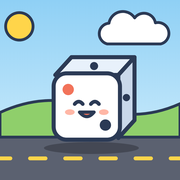
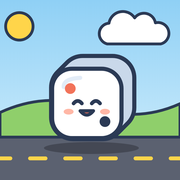
v1.0.0：骰子重畫
- 骰子改成圓角正面＋同形狀擠出的厚度，所有邊角一樣圓
- 主畫面圖示的骰子跟著換新

Claude-Session: https://claude.ai/code/session_01CaWGygM7QfDssuYbYcg2Lw

Changed region(s): [[0.25, 0.2778, 0.7778, 0.8056]]

diff --git a/index.html b/index.html
@@ -610,23 +610,25 @@ function ui(n,s=20,c=INK){
   return `<svg class="ic" width="${s}" height="${s}" viewBox="0 0 24 24">${P[n]||""}</svg>`;
 }
 
-/* ===== 實心手繪骰子（斜投影：正面＋上面＋右側面，全部不透明） ===== */
+/* ===== 實心手繪骰子（圓角正面＋往右上擠出的厚度，全部不透明） ===== */
 const PIPS={1:[[50,50]],2:[[28,28],[72,72]],3:[[26,26],[50,50],[74,74]],4:[[28,28],[72,28],[28,72],[72,72]],
   5:[[27,27],[73,27],[50,50],[27,73],[73,73]],6:[[29,24],[29,50],[29,76],[71,24],[71,50],[71,76]]};
 const pipSet=(n,r)=>PIPS[n].map(([x,y])=>`<circle cx="${x}" cy="${y}" r="${n===1?r*1.45:r}" fill="${n===1?"#F2735A":INK}"/>`).join("");
-// 跟 n 相鄰的兩面（對面相加 = 7，所以不能用 n 和 7-n）
-function sideFaces(n){ const adj=[1,2,3,4,5,6].filter(x=>x!==n&&x!==7-n); const top=adj[(n*2)%4]; const right=adj.filter(x=>x!==top&&x!==7-top)[0]; return [top,right]; }
-function dieSvg(n,face=true){
-  const [t,r]=sideFaces(n);
-  return `<g stroke-linejoin="round">
-    <path d="M14 34 L34 12 L112 12 L92 34 Z" fill="#E8F1FB" stroke="${INK}" stroke-width="5"/>
-    <g transform="matrix(.78,0,.2,-.22,14,34)">${pipSet(t,8)}</g>
-    <path d="M92 34 L112 12 L112 90 L92 112 Z" fill="#C9D8EA" stroke="${INK}" stroke-width="5"/>
-    <g transform="matrix(.2,-.22,0,.78,92,34)">${pipSet(r,8)}</g>
-    <rect x="12" y="32" width="82" height="82" rx="16" fill="#fff" stroke="${INK}" stroke-width="5"/>
-    <path d="M24 40 h40" stroke="#E8F1FB" stroke-width="5" stroke-linecap="round"/>
-    <g transform="translate(14 34) scale(.78)">${pipSet(n,8.5)}</g>
-  </g>`;
+// 圓角方塊往右上「擠出」厚度：同一個圓角形狀疊 10 層，所有邊角一樣圓
+let dieUid=0;
+function dieSvg(n){
+  const id="dg"+(++dieUid);   // SVG 漸層 id 要唯一，避免多顆骰子互相蓋掉
+  const X=12,Y=30,S=84,R=24,DX=13,DY=-13,K=10;
+  const layers=[]; for(let i=K;i>=1;i--) layers.push([DX*i/K,DY*i/K]);
+  const rect=(dx,dy,extra)=>`<rect x="${X+dx}" y="${Y+dy}" width="${S}" height="${S}" rx="${R}" ${extra}/>`;
+  const pip=(x,y,r,c)=>`<circle cx="${x}" cy="${y}" r="${r}" fill="${c}"/><circle cx="${x-r*.32}" cy="${y-r*.34}" r="${r*.3}" fill="#fff" opacity=".5"/>`;
+  const pips=PIPS[n].map(([x,y])=>{ const px=X+8+x*.68, py=Y+8+y*.68; return n===1?pip(px,py,13,"#F2735A"):pip(px,py,7.6,INK); }).join("");
+  return `<defs><linearGradient id="${id}" x1="0" y1="0" x2="1" y2="1"><stop offset="0" stop-color="#EEF4FB"/><stop offset="1" stop-color="#B9CCE3"/></linearGradient></defs>
+    ${layers.map(([dx,dy])=>rect(dx,dy,`fill="${INK}" stroke="${INK}" stroke-width="10"`)).join("")}
+    ${layers.map(([dx,dy])=>rect(dx,dy,`fill="url(#${id})"`)).join("")}
+    ${rect(0,0,`fill="#fff" stroke="${INK}" stroke-width="5"`)}
+    <path d="M${X+14} ${Y+R*.9} Q${X+14} ${Y+12} ${X+R+10} ${Y+11}" fill="none" stroke="#E3ECF7" stroke-width="5" stroke-linecap="round"/>
+    ${pips}`;
 }
 function faceMini(n,s=18,bg="#fff"){
   return `<svg class="ic" width="${s}" height="${s}" viewBox="0 0 100 100"><rect x="5" y="5" width="90" height="90" rx="20" fill="${bg}" stroke="${INK}" stroke-width="8"/>${pipSet(n,9)}</svg>`;

diff --git a/tools/make_assets.py b/tools/make_assets.py
@@ -12,15 +12,15 @@ icon=f'''<svg xmlns="http://www.w3.org/2000/svg" viewBox="0 0 1024 1024" width="
 <rect x="-20" y="780" width="1064" height="260" fill="#5B6170" stroke="{INK}" stroke-width="16"/>
 <g fill="#FFD54A">{"".join(f'<rect x="{x}" y="890" width="110" height="22" rx="11"/>' for x in range(-40,1024,200))}</g>
 <ellipse cx="520" cy="842" rx="270" ry="34" fill="rgba(0,0,0,.25)"/>
-<g transform="translate(250 270) scale(4.6)" stroke-linejoin="round">
- <path d="M14 34 L34 12 L112 12 L92 34 Z" fill="#E8F1FB" stroke="{INK}" stroke-width="5"/>
- <path d="M92 34 L112 12 L112 90 L92 112 Z" fill="#C9D8EA" stroke="{INK}" stroke-width="5"/>
- <circle cx="62" cy="23" r="5" fill="{INK}"/><circle cx="102" cy="62" r="4.5" fill="{INK}"/>
- <rect x="12" y="32" width="82" height="82" rx="16" fill="#fff" stroke="{INK}" stroke-width="5"/>
- <circle cx="30" cy="52" r="7" fill="#F2735A"/><circle cx="76" cy="96" r="7" fill="{INK}"/>
- <path d="M38 70 q5 -6 10 0 M58 70 q5 -6 10 0" stroke="{INK}" stroke-width="4.5" fill="none" stroke-linecap="round"/>
- <path d="M44 80 q9 11 18 0 Z" fill="#F2735A" stroke="{INK}" stroke-width="4" />
- <ellipse cx="32" cy="80" rx="6" ry="3.5" fill="#FFB7A6"/><ellipse cx="74" cy="80" rx="6" ry="3.5" fill="#FFB7A6"/>
+<g transform="translate(240 250) scale(4.7)">
+ {"".join(f'<rect x="{12+13*i/10}" y="{30-13*i/10}" width="84" height="84" rx="24" fill="{INK}" stroke="{INK}" stroke-width="10"/>' for i in range(10,0,-1))}
+ {"".join(f'<rect x="{12+13*i/10}" y="{30-13*i/10}" width="84" height="84" rx="24" fill="#C9D8EA"/>' for i in range(10,0,-1))}
+ <rect x="12" y="30" width="84" height="84" rx="24" fill="#fff" stroke="{INK}" stroke-width="5"/>
+ <path d="M26 52 Q26 42 46 41" fill="none" stroke="#E3ECF7" stroke-width="5" stroke-linecap="round"/>
+ <circle cx="34" cy="54" r="6.5" fill="#F2735A"/><circle cx="76" cy="94" r="6.5" fill="{INK}"/>
+ <path d="M38 72 q5 -6 10 0 M60 72 q5 -6 10 0" stroke="{INK}" stroke-width="4.5" fill="none" stroke-linecap="round"/>
+ <path d="M46 81 q8 10 16 0 Z" fill="#F2735A" stroke="{INK}" stroke-width="4" stroke-linejoin="round"/>
+ <ellipse cx="32" cy="82" rx="6" ry="3.5" fill="#FFB7A6"/><ellipse cx="76" cy="82" rx="6" ry="3.5" fill="#FFB7A6"/>
 </g>
 </svg>'''
 with sync_playwright() as p:
